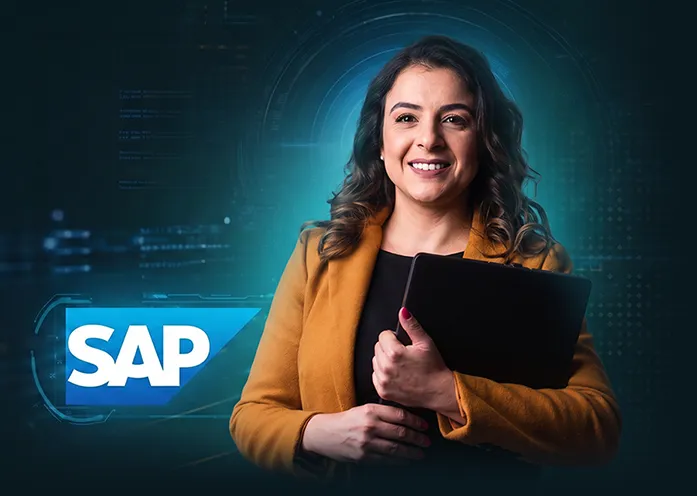
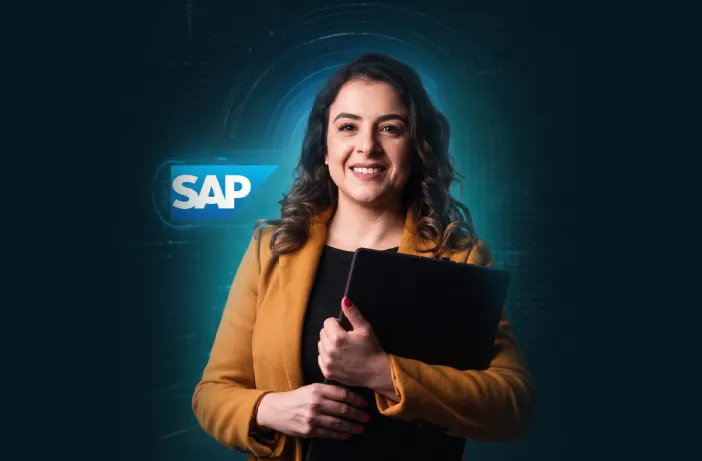
feat: substitui mockup do pedido de compras por print real do SAP
- assets/pedido-de-compras.webp: print da ME23N convertido de PNG para
  WebP qualidade 85 (1,32 MB -> 119 KB), 1448x1086
- 6a dobra: mockup montado em HTML/CSS trocado por <img> com lazy load,
  dimensoes declaradas e alt descritivo
- removidas as regras CSS e media queries que serviam so ao mockup
- assets/imagem-fundo-mob.webp reotimizada

diff --git a/lp-formacao-sap/index.html b/lp-formacao-sap/index.html
@@ -298,25 +298,7 @@
     .sap-screen__bar { height: 42px; display: flex; align-items: center; gap: 9px; padding: 0 13px; border-radius: 16px 16px 0 0; background: #dfe9ea; color: #24434a; }
     .sap-screen__dot { width: 8px; height: 8px; border-radius: 50%; background: #aac0c3; }
     .sap-screen__title { margin-left: 9px; font: 750 .65rem/1 'JetBrains Mono', ui-monospace, monospace; letter-spacing: .05em; }
-    .sap-screen__main { display: grid; grid-template-columns: 150px 1fr; min-height: 420px; background: #f8fbfb; border-radius: 0 0 16px 16px; overflow: hidden; }
-    .sap-screen__side { padding: 18px 13px; background: #102f36; }
-    .sap-screen__side strong { display: block; padding: 0 8px 12px; color: rgba(255,255,255,.4); font: 750 .57rem/1 'JetBrains Mono', ui-monospace, monospace; letter-spacing: .12em; text-transform: uppercase; }
-    .sap-screen__nav { list-style: none; padding: 0; margin: 0; display: grid; gap: 5px; }
-    .sap-screen__nav li { padding: 9px 10px; border-radius: 9px; color: rgba(255,255,255,.72); font-size: .68rem; }
-    .sap-screen__nav li.active { color: var(--white); background: rgba(93,226,214,.15); }
-    .sap-screen__content { padding: 22px; color: #17373d; }
-    .sap-screen__breadcrumb { color: #70868b; font: 700 .58rem/1 'JetBrains Mono', ui-monospace, monospace; letter-spacing: .04em; }
-    .sap-screen__content h3 { margin-top: 12px; font-size: 1.1rem; }
-    .sap-screen__filters { display: grid; grid-template-columns: repeat(3,1fr); gap: 8px; margin-top: 17px; }
-    .sap-screen__field { height: 43px; padding: 8px; border: 1px solid #d8e2e3; border-radius: 8px; background: #fff; }
-    .sap-screen__field span { display: block; color: #88999d; font-size: .49rem; text-transform: uppercase; }
-    .sap-screen__field b { display: block; margin-top: 3px; font-size: .65rem; }
-    .sap-screen__table { margin-top: 18px; border: 1px solid #dbe4e5; border-radius: 10px; overflow: hidden; background: #fff; }
-    .sap-screen__row { display: grid; grid-template-columns: 1.2fr 1.4fr .8fr .7fr; }
-    .sap-screen__row > span { padding: 10px 9px; border-right: 1px solid #e7eeee; border-bottom: 1px solid #e7eeee; font-size: .56rem; }
-    .sap-screen__row > span:last-child { border-right: 0; }
-    .sap-screen__row--head { background: #edf4f4; color: #60787e; font-weight: 800; }
-    .sap-screen__row:last-child > span { border-bottom: 0; }
+    .sap-screen__shot { display: block; width: 100%; height: auto; border-radius: 0 0 16px 16px; background: #f8fbfb; }
     .environment__copy h2 { font-size: clamp(2.2rem, 4vw, 4rem); line-height: 1.05; }
     .environment__copy > p { margin-top: 20px; color: rgba(255,255,255,.72); }
     .environment__list { list-style: none; padding: 0; margin: 29px 0 0; display: grid; gap: 18px; }
@@ -554,12 +536,6 @@
       .hero__micro { flex-wrap: wrap; }
       .pain-grid, .module-grid { grid-template-columns: 1fr; }
       .shift__statement, .shift__col { padding: 27px; }
-      .sap-screen__main { grid-template-columns: 1fr; min-height: 380px; }
-      .sap-screen__side { display: none; }
-      .sap-screen__filters { grid-template-columns: 1fr; }
-      .sap-screen__field:nth-child(n+2) { display: none; }
-      .sap-screen__row { grid-template-columns: 1.2fr 1fr .7fr; }
-      .sap-screen__row span:nth-child(2) { display: none; }
       .bonus-card { grid-template-columns: 1fr; }
       .price-card { padding: 30px 24px; }
       .price-card__price strong { font-size: 3.7rem; }
@@ -701,10 +677,7 @@
       <div class="container environment">
         <div class="sap-screen" data-reveal="left" aria-label="Demonstração visual do ambiente de prática">
           <div class="sap-screen__bar"><span class="sap-screen__dot"></span><span class="sap-screen__dot"></span><span class="sap-screen__dot"></span><span class="sap-screen__title">AMBIENTE DO ALUNO · S/4HANA</span></div>
-          <div class="sap-screen__main">
-            <aside class="sap-screen__side"><strong>Processos</strong><ul class="sap-screen__nav"><li class="active">Compras</li><li>Armazém</li><li>Vendas</li><li>Manutenção</li><li>Localização BR</li><li>Customizing</li></ul></aside>
-            <div class="sap-screen__content"><div class="sap-screen__breadcrumb">MM / PEDIDO DE COMPRAS / CRIAR</div><h3>Pedido de compras com impostos</h3><div class="sap-screen__filters"><div class="sap-screen__field"><span>Centro</span><b>BR01</b></div><div class="sap-screen__field"><span>Fornecedor</span><b>100045</b></div><div class="sap-screen__field"><span>Tipo</span><b>NB</b></div></div><div class="sap-screen__table"><div class="sap-screen__row sap-screen__row--head"><span>Material</span><span>Descrição</span><span>Quantidade</span><span>Status</span></div><div class="sap-screen__row"><span>MAT-1001</span><span>Componente industrial</span><span>25 UN</span><span style="color:#0b8067;font-weight:800">OK</span></div><div class="sap-screen__row"><span>MAT-2028</span><span>Material de consumo</span><span>10 UN</span><span style="color:#0b8067;font-weight:800">OK</span></div><div class="sap-screen__row"><span>SERV-018</span><span>Serviço manutenção</span><span>1 AU</span><span style="color:#a66a25;font-weight:800">REV.</span></div></div></div>
-          </div>
+          <img class="sap-screen__shot" src="/assets/pedido-de-compras.webp" width="1448" height="1086" loading="lazy" decoding="async" alt="Tela ME23N do SAP exibindo um pedido de compra com itens, quantidades e preços">
         </div>
         <div class="environment__copy" data-reveal="right">
           <h2>Você não vai só assistir. Vai ter <span class="accent">um SAP para praticar</span> por 12 meses.</h2>
